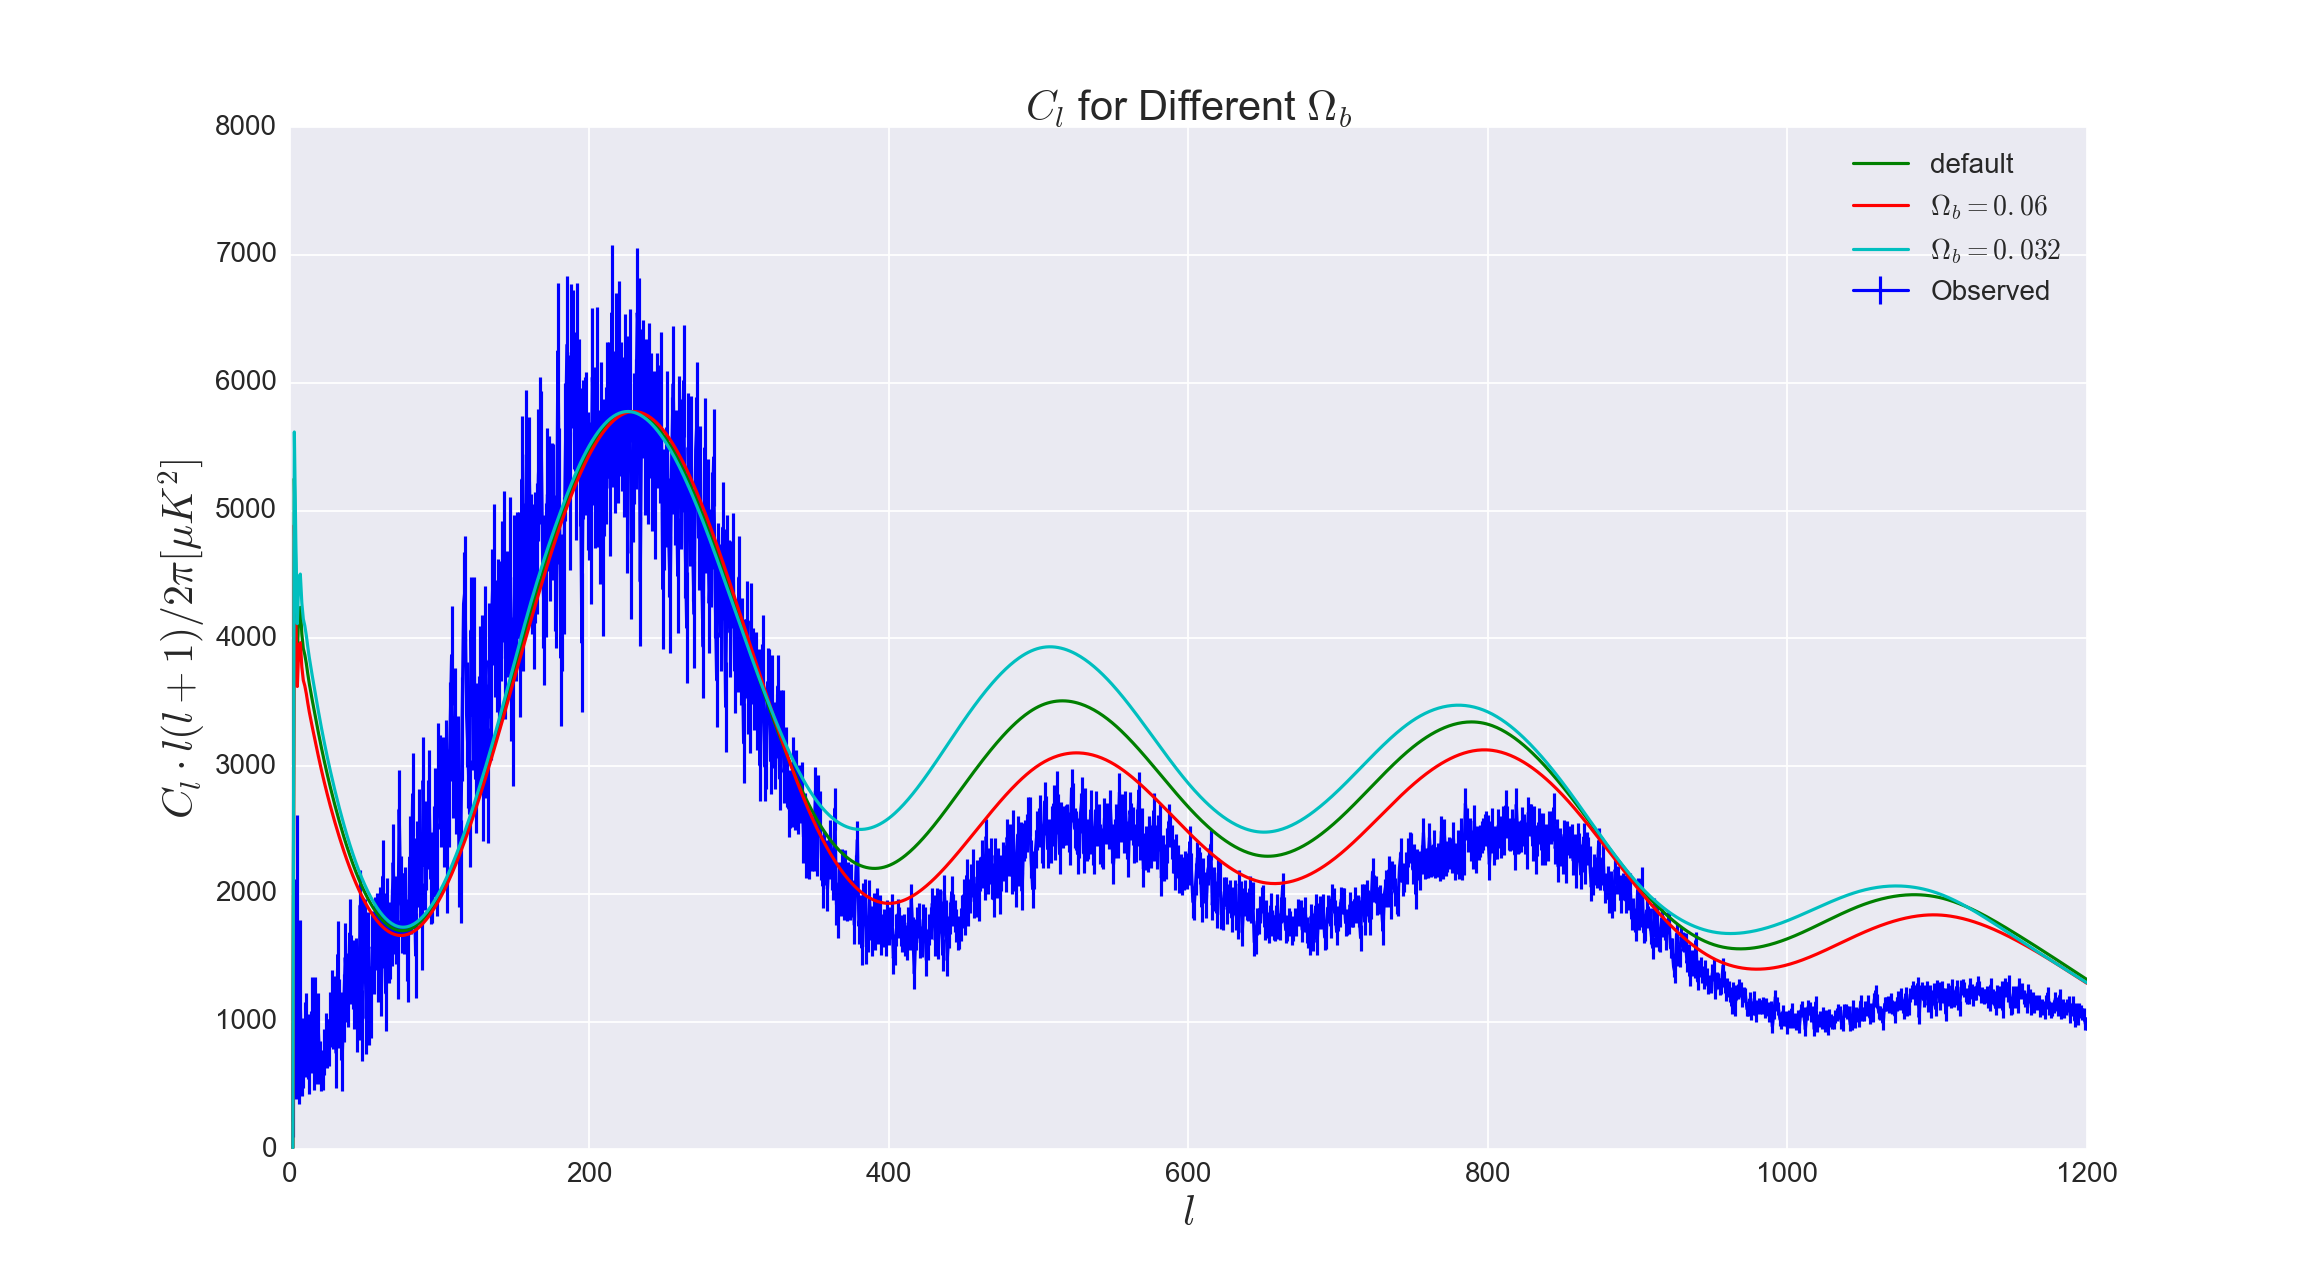
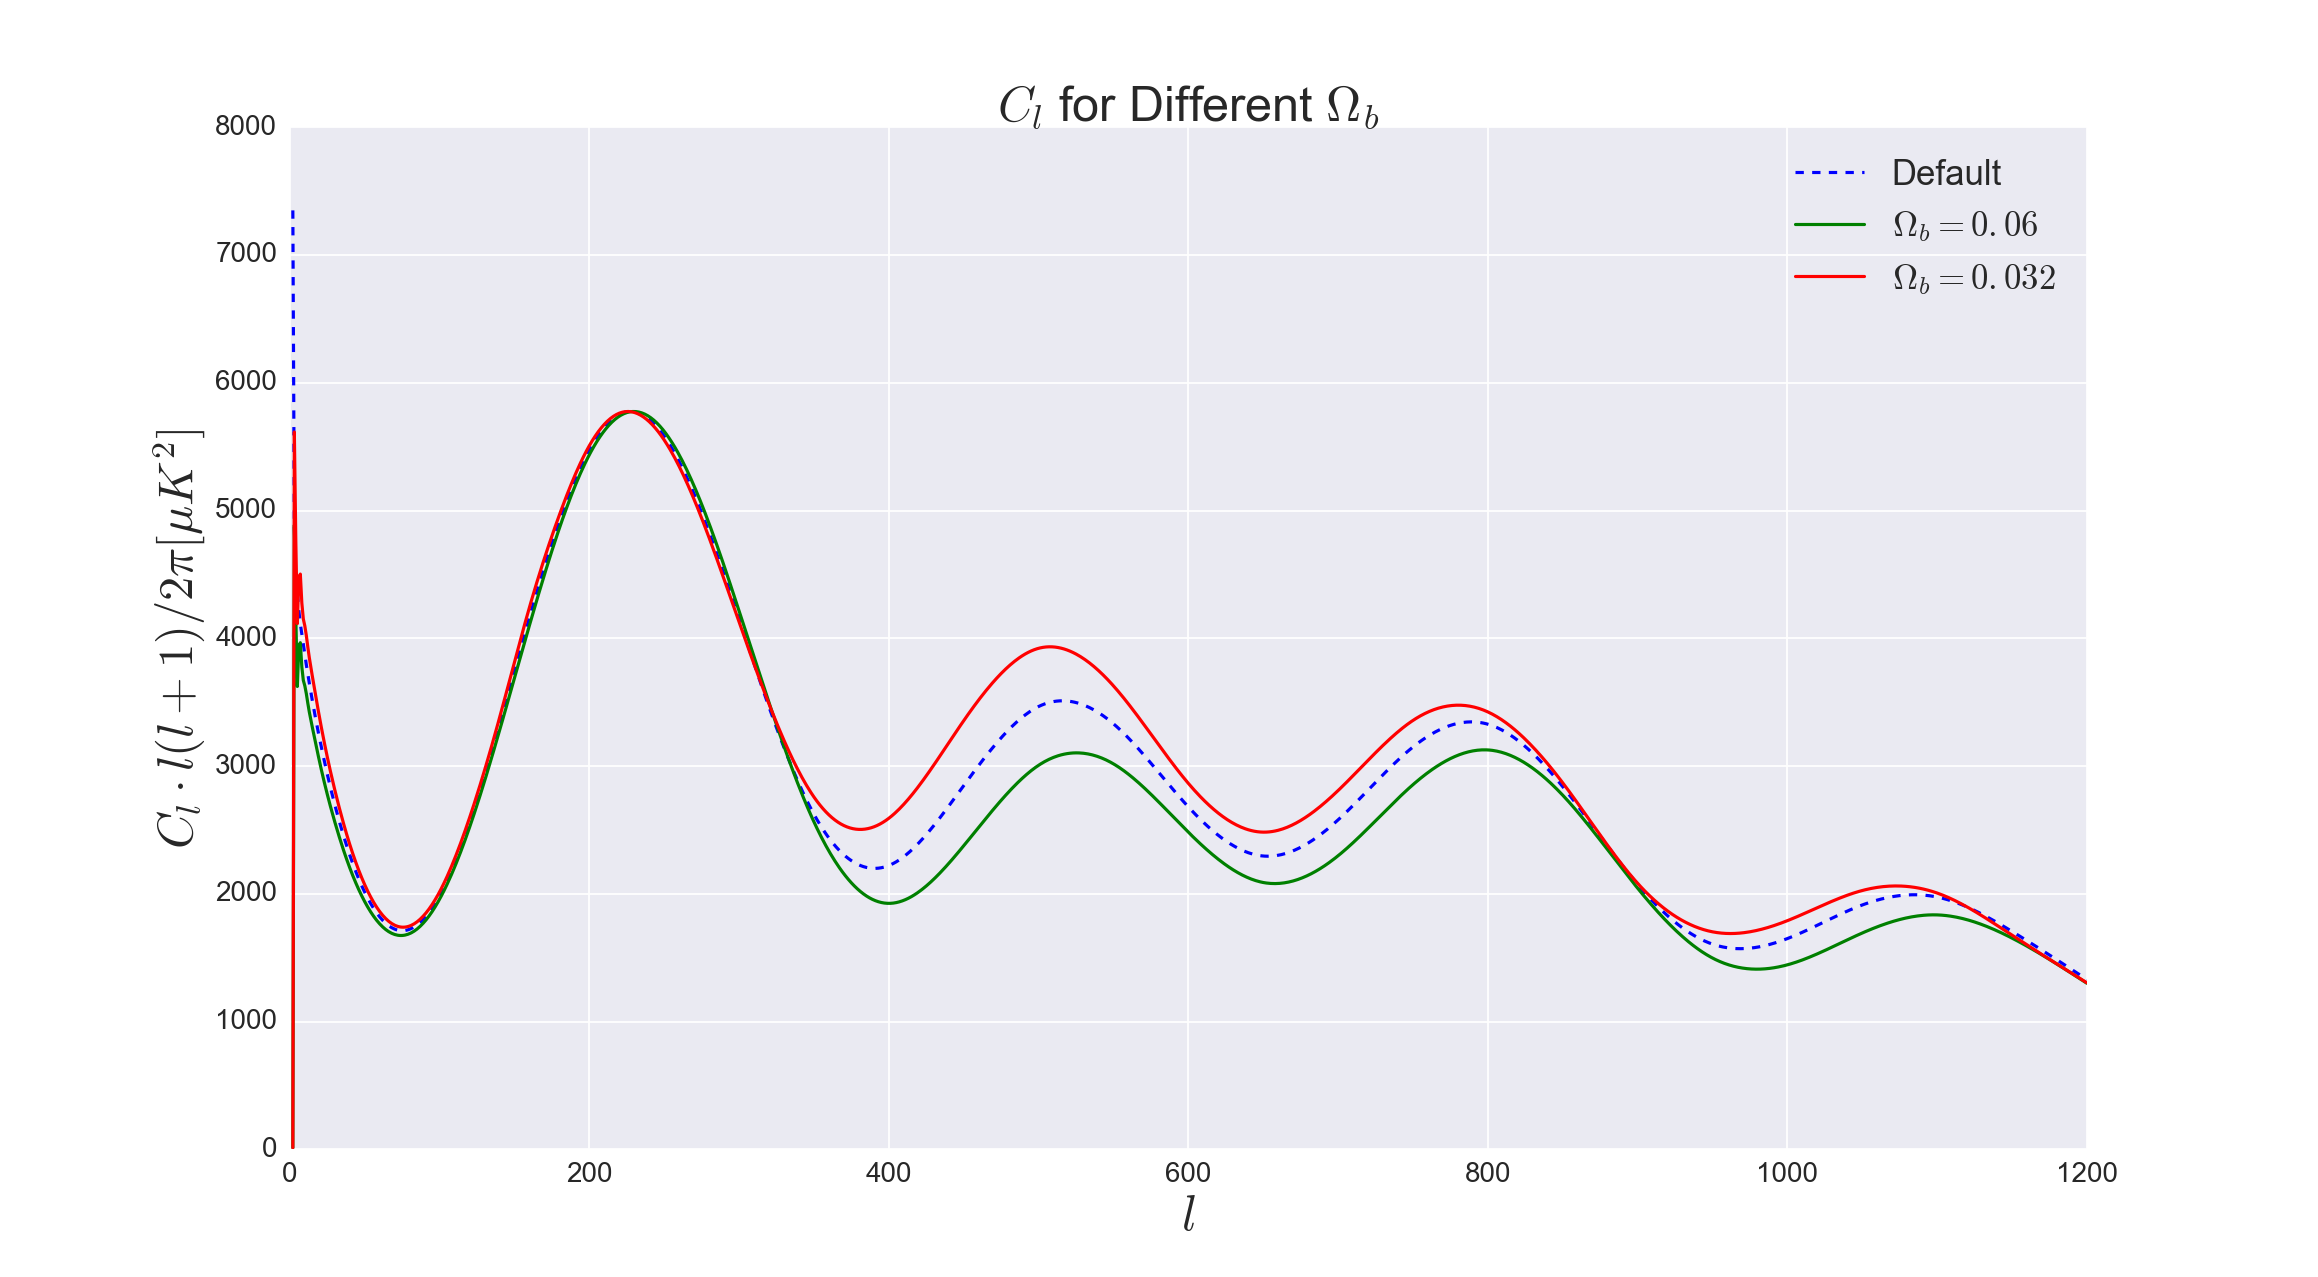
Remade most of the plots

diff --git a/milestone4/analysis/milestone4.py b/milestone4/analysis/milestone4.py
@@ -10,6 +10,9 @@ sns.set_context("talk")
 plt.rc('xtick', labelsize=20)
 plt.rc('ytick', labelsize=20)
 
+font_size = 35
+legend_font_size = 25
+
 
 
 def read_file(name):
@@ -69,15 +72,15 @@ def normalize_cl(cl,cl_default):
 
 
 def plot_default_againts_other(ls,cl_default,cl_up,cl_down,observed,observed_lim,up_label,down_label,title):
-    plt.errorbar(ls,observed,yerr=observed_lim,label="Observed")
+    #plt.errorbar(ls,observed,yerr=observed_lim,label="Observed")
     
-    plt.plot(ls,cl_default,label="default")
+    plt.plot(ls,cl_default,"--",label="Default")
     plt.plot(ls,cl_up,label=up_label)
     plt.plot(ls,cl_down,label=down_label)
-    plt.title(title,fontsize=30)
-    plt.xlabel(r"$l$",fontsize=30)
-    plt.ylabel(r"$C_l\cdot l(l+1)/2\pi [\mu K^2]$",fontsize=30)
-    plt.legend(loc="best",fontsize=20)
+    plt.title(title,fontsize=font_size)
+    plt.xlabel(r"$l$",fontsize=font_size)
+    plt.ylabel(r"$C_l\cdot l(l+1)/2\pi [\mu K^2]$",fontsize=font_size)
+    plt.legend(loc="best",fontsize=legend_font_size)
     plt.show()
 
 
@@ -104,10 +107,10 @@ if __name__ == "__main__":
     plt.errorbar(ls,Dl,yerr=Dl_limits,label="Observed")
     
     plt.plot(ls,cl_default_normed,label="default")
-    plt.title(r"$C_l$ for simulation and observations",fontsize=30)
-    plt.xlabel(r"$l$",fontsize=30)
-    plt.ylabel(r"$C_l\cdot l(l+1)/2\pi [\mu K^2]$",fontsize=30)
-    plt.legend(loc="best",fontsize=20)
+    plt.title(r"$C_l$ for simulation and observations",fontsize=font_size)
+    plt.xlabel(r"$l$",fontsize=font_size)
+    plt.ylabel(r"$C_l\cdot l(l+1)/2\pi [\mu K^2]$",fontsize=font_size)
+    plt.legend(loc="best",fontsize=font_size)
     
     plt.show()
 
@@ -180,10 +183,10 @@ if __name__ == "__main__":
     plt.plot(ls,cl_best_2,label=r"$\Omega_b = 0.055, \Omega_m = 0.18, n_s = 0.9$")
     plt.plot(ls,cl_best_6,label=r"$\Omega_b = 0.06, \Omega_m = 0.18, n_s = 0.85$")
     plt.plot(ls,cl_best_7,label=r"$\Omega_b = 0.065, \Omega_m = 0.20, n_s = 0.80$")
-    plt.title(r"$C_l$ for Best Fit",fontsize=30)
-    plt.xlabel(r"$l$",fontsize=30)
-    plt.ylabel(r"$C_l\cdot l(l+1)/2\pi [\mu K^2]$",fontsize=30)
-    plt.legend(loc="best",fontsize=20)
+    plt.title(r"$C_l$ for Best Fit",fontsize=font_size)
+    plt.xlabel(r"$l$",fontsize=font_size)
+    plt.ylabel(r"$C_l\cdot l(l+1)/2\pi [\mu K^2]$",fontsize=font_size)
+    plt.legend(loc="best",fontsize=legend_font_size)
     plt.show()
 
 
@@ -192,13 +195,14 @@ if __name__ == "__main__":
     # For plotting Source function times Bessel
     sjl = read_file(output_path+"sjl.dat")
     x = read_file(output_path+"x.dat")
-
+    
+    
 
     plt.plot(x,sjl/1e-3)
     plt.xlim(-8,0)
     plt.ylim(-3,2)
-    plt.xlabel("x",fontsize=30)
-    plt.ylabel(r"$\tilde{S}j_l(k(\eta_0-\eta))/10^{-3}$",fontsize=30)
+    plt.xlabel("x",fontsize=font_size)
+    plt.ylabel(r"$\tilde{S}j_l(k(\eta_0-\eta))/10^{-3}$",fontsize=font_size)
     plt.show()
 
 
@@ -208,28 +212,33 @@ if __name__ == "__main__":
     h0 = 0.7
     Mpc = 3.08568025e22
     H_0 = h0 * 100.0 * 1e3 / Mpc
+    
+    
 
-    for l in [2,200,400,800,1000,1200]:
+
+
+    for l in [6,200,400,800,1000,1200]:
         filename = "transfer_l_%s.dat" %l
         Theta = read_file(output_path+filename)
         plt.plot(ks[:2500],Theta[:2500],label="l=%s"%l)
-    plt.legend(loc="best")
-    plt.xlabel(r"$kc/H_0$",fontsize=30)
-    plt.ylabel(r"$\Theta_l$",fontsize=30)
+    plt.legend(loc="best",fontsize=legend_font_size)
+    plt.xlabel(r"$kc/H_0$",fontsize=font_size)
+    plt.ylabel(r"$\Theta_l$",fontsize=font_size)
     plt.xlim(0,500)
-    plt.ylim(-.025,.025)
+    #plt.ylim(-.025,.025)
+    plt.ylim(-.01,.03)
     plt.show()
 
 
-    for l in [2,200,400,800,1000,1200]:
+    for l in [6,200,400,800,1000,1200]:
         filename = "transfer_l_%s.dat" %l
         Theta = read_file(output_path+filename)
-        plt.plot(ks[:2000],l*Theta[:2000]**2/(ks[:2000]),label="l=%s"%l)
-    plt.legend(loc="best")
-    plt.xlabel(r"$kc/H_0$",fontsize=30)
-    plt.ylabel(r"$l\Theta_l^2/k \cdot H_0/c$",fontsize=30)
+        plt.plot(ks[:2000],l*(l+1)*Theta[:2000]**2/(ks[:2000]),label="l=%s"%l)
+    plt.legend(loc="best",fontsize=legend_font_size)
+    plt.xlabel(r"$kc/H_0$",fontsize=font_size)
+    plt.ylabel(r"$l(l+1)\Theta_l^2/k \cdot H_0/c$",fontsize=font_size)
     plt.xlim(0,400)
-    plt.ylim(0,0.0002)
+    plt.ylim(0,0.1)
     plt.show()
 
 
